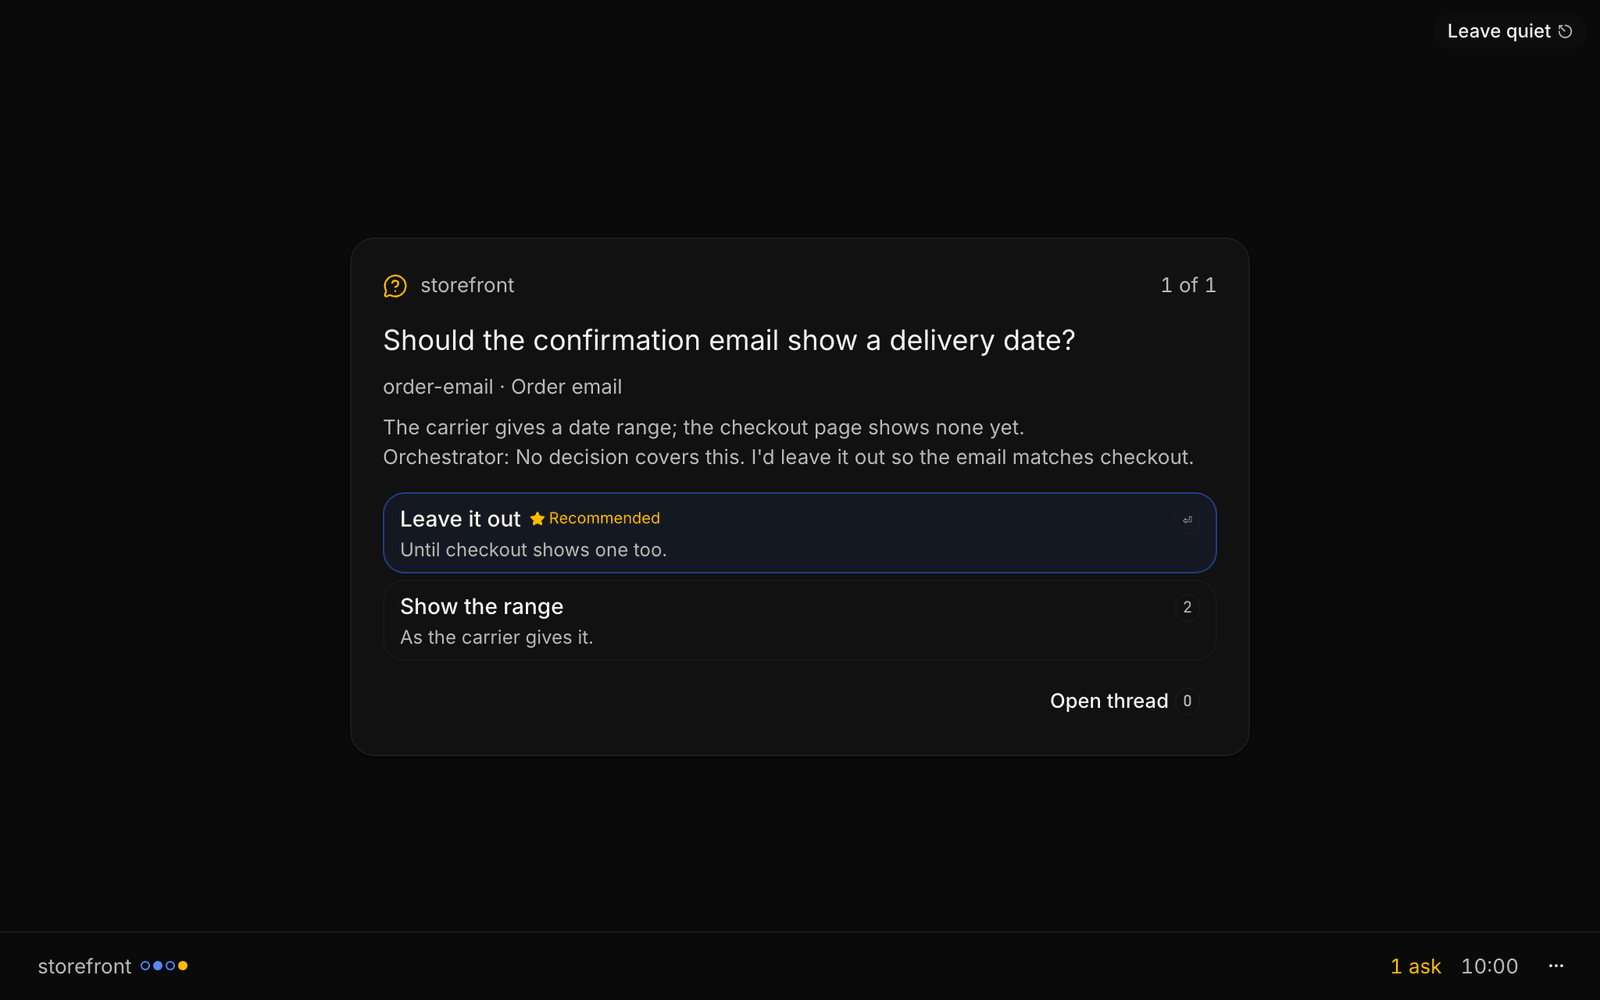
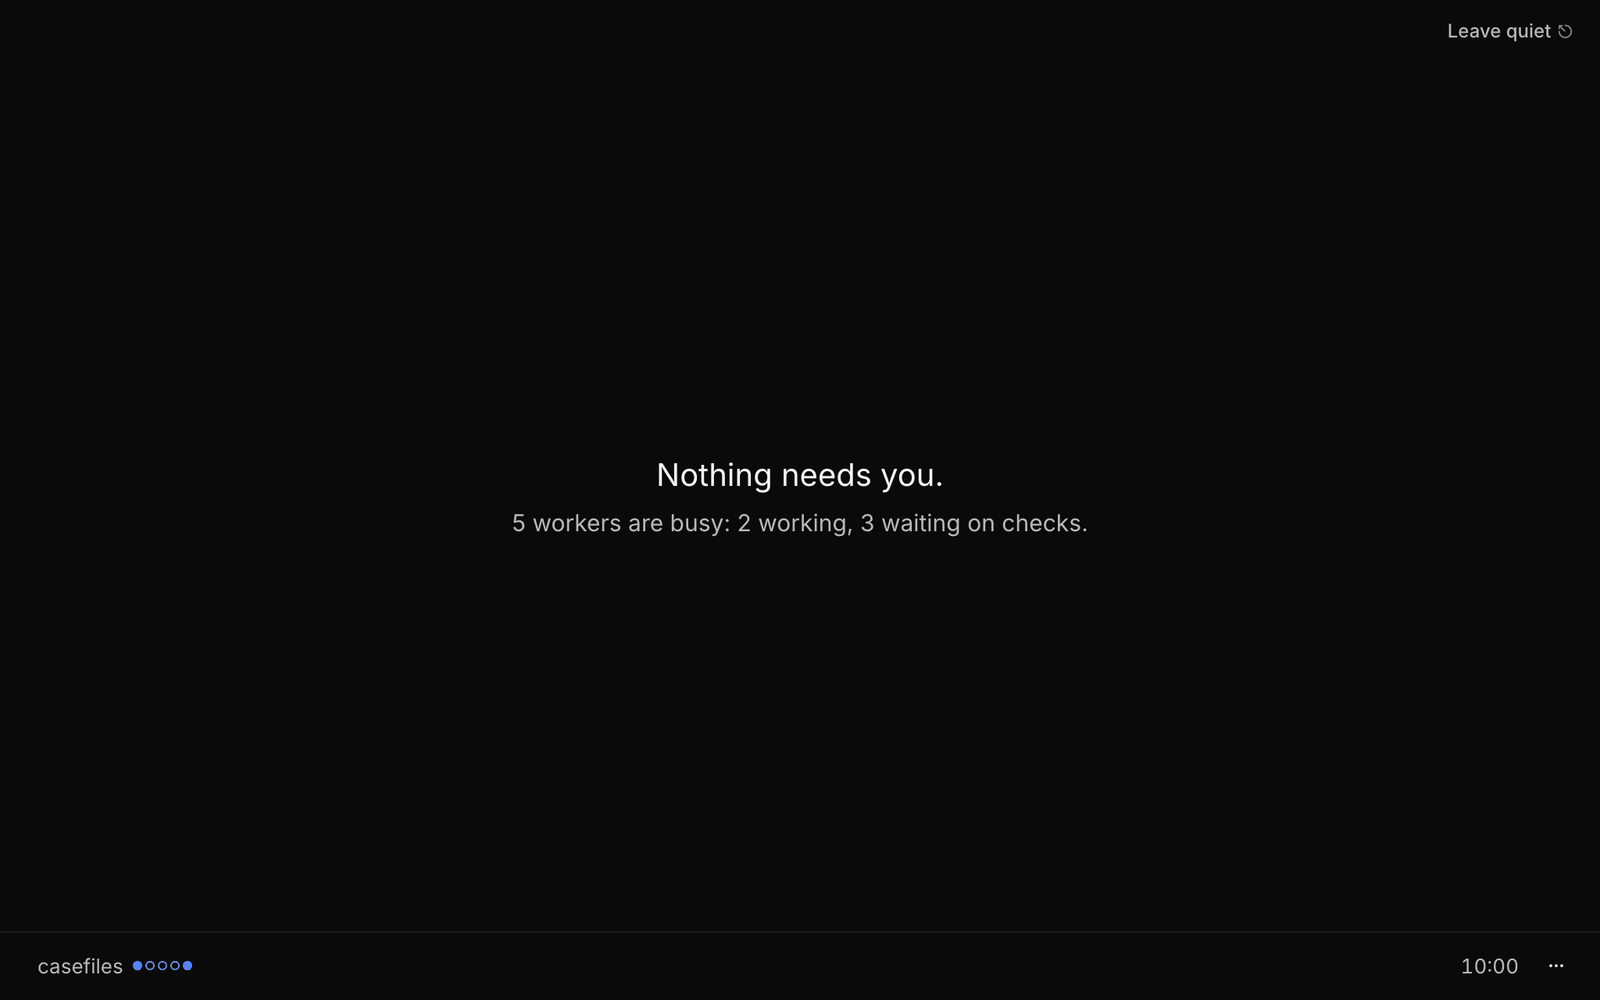
docs: show Quiet at rest with workers busy in the README (#97)
The README's Quiet image showed a worker's question card with two
answers. It now shows what Quiet is for: its calm resting state, with
several workers busy in the background, nothing asked, and you free to
get on with something else.

### What changed
- **`docs/assets/gram-quiet.png`** (1600×1000, 8-bit palette, 39 KB → 19
KB): Quiet over the synthetic `casefiles` workspace
(`simulateQuietBusy`). It reads "Nothing needs you." and "5 workers are
busy: 2 working, 3 waiting on checks.", with the workspace's strip along
the bottom: filled dots for the two working and hollow dots for the
three waiting on CI, the review bot and a dependency PR. Default look
(Studio, Neutral Dark, Dark), and the same 1024×640 viewport and 1600 px
resize as before.
- **README alt text**: now says exactly what the image shows (below).
- **README prose**: unchanged. "shows only what needs you, one card at a
time, with a dot per worker along the bottom" still holds: Quiet shows a
card when something asks, and the strip is in the image.
- **`readme-quiet` pr-shot** (`openReadmeQuiet` in
`apps/web/pr-shots/shots.ts`): stages `simulateQuietBusy` in the
README's look (no usage limits, right panel closed). It parks the seeded
solo threads that ask (`README_PARKED`) and `casefiles`'s one worker
stopped on a conflict, so the summary doesn't add "1 needs attention"
under "Nothing needs you." Regenerate it with `bun run --filter
@gram/web pr:shots --shot readme-quiet --after-only`, then resize to
[…]

diff --git a/apps/web/pr-shots/shots.ts b/apps/web/pr-shots/shots.ts
@@ -271,8 +271,8 @@ const README_PARKED = ["t-flaky", "t-question", "t-plan", "t-background", "t-edi
 /**
  * The README's scene (`simulateReadme`): `storefront`'s orchestrator in the default look, the right
  * panel closed and no usage limits reported, at `width` × `height`. The README's images in
- * `docs/assets/` are `readme-hero`, `readme-board` and `readme-quiet`, resized to 1600 px wide and
- * palette-quantised.
+ * `docs/assets/` are `readme-hero`, `readme-board` and `readme-quiet` (`openReadmeQuiet`), resized
+ * to 1600 px wide and palette-quantised.
  */
 const openReadme = async (page: Page, width: number, height: number) => {
   await page.addInitScript(() => sessionStorage.setItem("gram.mock.limits", "none"));
@@ -297,6 +297,34 @@ const openReadme = async (page: Page, width: number, height: number) => {
   await page.getByLabel("Message", { exact: true }).waitFor();
   await page.getByText("Started six workers", { exact: false }).waitFor();
   await page.setViewportSize({ width, height });
+  await page.mouse.move(width - 4, height - 4);
+  await page.waitForTimeout(800);
+};
+
+/**
+ * Quiet at rest for the README (`simulateQuietBusy`): `casefiles`'s five busy workers and nothing
+ * asked, its one worker stopped on a conflict parked, in the README's look (no usage limits, the right panel closed, the seeded solo
+ * threads that ask parked), at `width` × `height`.
+ */
+const openReadmeQuiet = async (page: Page, width: number, height: number) => {
+  await page.addInitScript(() => sessionStorage.setItem("gram.mock.limits", "none"));
+  await seedMockSettings(page, { panel: { open: false } });
+  await page.setViewportSize({ width: 1440, height: 900 });
+  await page.goto("/t/t-deps");
+  await page.getByLabel("Message", { exact: true }).waitFor();
+  const made = await page.evaluate(async (parked) => {
+    const mock = window.gramMock!;
+    for (const id of parked) await mock.park(id as never, true);
+    const scene = await mock.simulateQuietBusy();
+    // The worker stopped on a conflict is the one thing to attend to; at rest, nothing is.
+    await mock.park(scene.conflicts, true);
+    return scene;
+  }, README_PARKED);
+  await openOrchestrator(page, made.orchestratorThreadId);
+  await page.getByLabel("Message", { exact: true }).waitFor();
+  await page.setViewportSize({ width, height });
+  await page.getByTestId("quiet-toggle").click();
+  await page.getByTestId("quiet-empty").waitFor();
   await page.mouse.move(width - 4, height - 4);
   await page.waitForTimeout(800);
 };
@@ -961,14 +989,9 @@ export const SHOTS: readonly Shot[] = [
   },
   {
     name: "readme-quiet",
-    title: "README: Quiet over `storefront`, its one question as the card",
+    title: "README: Quiet at rest over `casefiles`, its workers busy and nothing asked",
     modes: ["dark"],
-    open: async (page) => {
-      await openReadme(page, 1024, 640);
-      await page.getByTestId("quiet-toggle").click();
-      await page.getByTestId("quiet-card").waitFor();
-      await page.waitForTimeout(800);
-    },
+    open: (page) => openReadmeQuiet(page, 1024, 640),
   },
   {
     name: "quiet-busy-board",

diff --git a/README.md b/README.md
@@ -94,7 +94,7 @@ time, with a dot per worker along the bottom. Get on with your own work and come
 asked. Open it with the moon in the title bar or ⌘⌥4 (Ctrl+Alt+4 on Linux), and leave with Esc;
 **Quiet when idle** in Settings → General turns it on after five idle minutes with nothing asked.
 
-![Gram's Quiet view: an otherwise empty window with one card in the middle, a worker's question with two answers, one of them recommended. Along the bottom, the workspace's name with a dot per worker, the number of asks and the time.](docs/assets/gram-quiet.png)
+![Gram's Quiet view at rest: an otherwise empty window that reads "Nothing needs you. 5 workers are busy: 2 working, 3 waiting on checks." Along the bottom, the workspace's name with a dot per worker, filled for the two working and hollow for the three waiting, and the time; Leave quiet sits in the top corner.](docs/assets/gram-quiet.png)
 
 ## Docs
 
